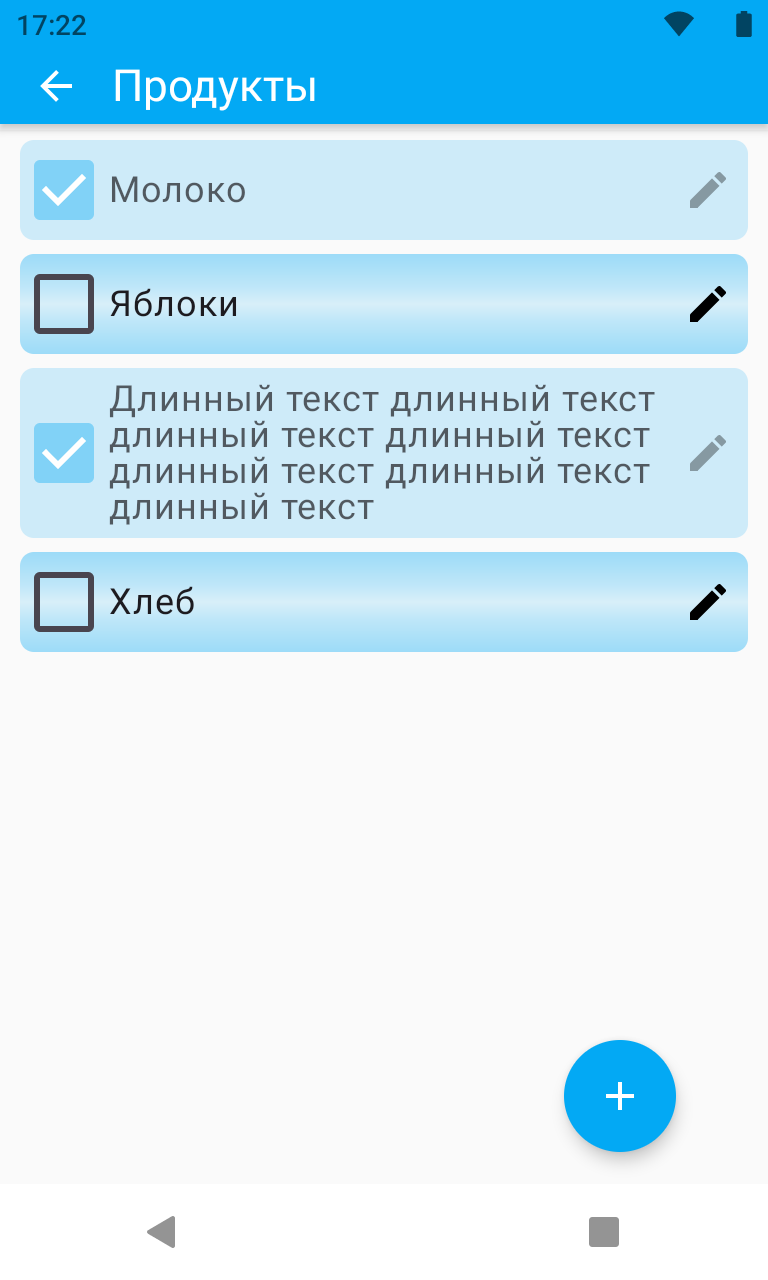
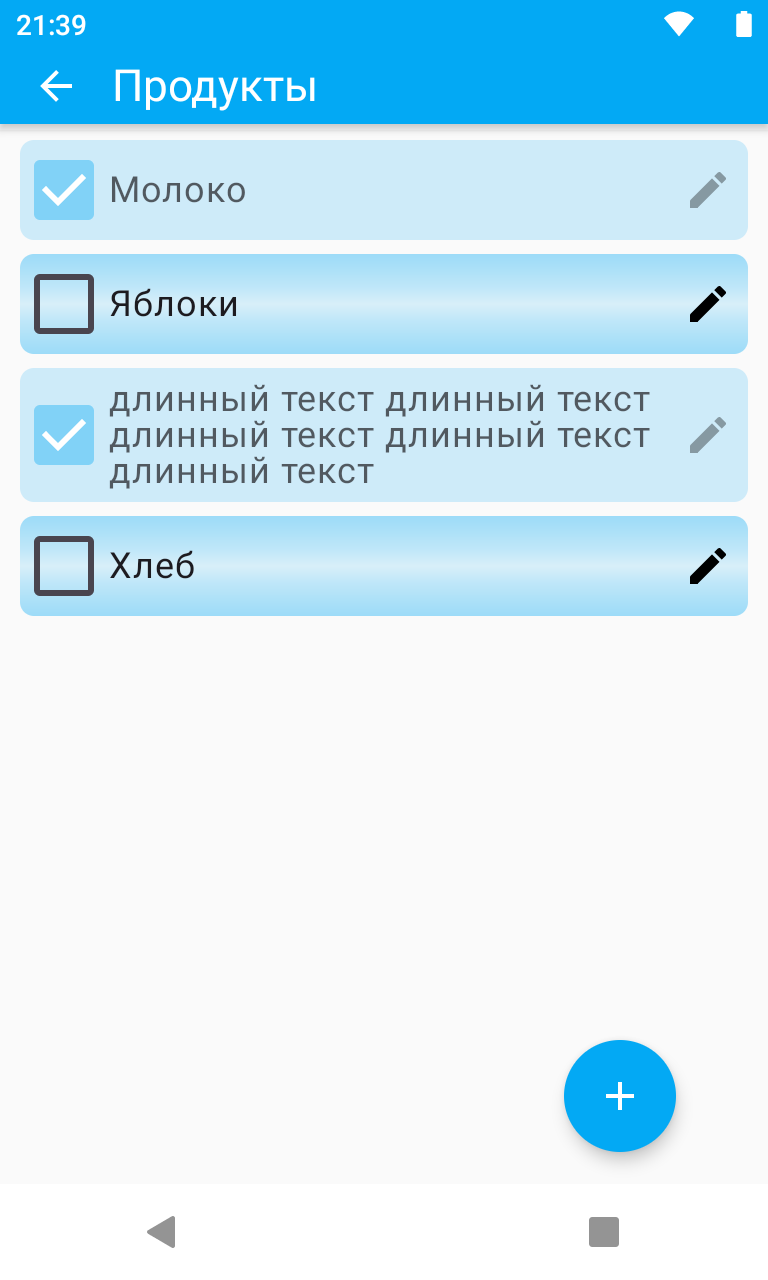
* Поменял внешний вид списка, если в нем все пункты выполнены: теперь он тоже становится плоским без градиента (как и выполненные пункты в самом списке) * В MainActivity принудительно выставил светлый цвет вместо темного для системной верхней панели, иначе сливается содержимое панели с фоном

diff --git a/app/src/main/java/alexx/rizz/mytodo/feature/todolist/ui/components/TodoLists.kt b/app/src/main/java/alexx/rizz/mytodo/feature/todolist/ui/components/TodoLists.kt
@@ -3,6 +3,7 @@ package alexx.rizz.mytodo.feature.todolist.ui.components
 import alexx.rizz.mytodo.R
 import alexx.rizz.mytodo.feature.todolist.*
 import alexx.rizz.mytodo.feature.todolist.TodoListVM.*
+import alexx.rizz.mytodo.feature.todolist.ui.*
 import alexx.rizz.mytodo.feature.todolist.ui.TodoListScreenCommon.RowPadding
 import alexx.rizz.mytodo.ui.*
 import alexx.rizz.mytodo.ui.theme.*
@@ -64,36 +65,39 @@ private fun ReorderableCollectionItemScope.ListRow(
   onDragStopped: () -> Unit,
 ) {
   val interactionSource = remember { MutableInteractionSource() }
+  val isAllDone = list.isAllDone()
+  val containerColor = if (isAllDone) MyColors.DoneCard else Color.Transparent
   Card(
     modifier = Modifier
       .fillMaxWidth()
       .makeDraggable(this, interactionSource, haptic, onDragStopped),
     interactionSource = interactionSource,
     shape = RoundedCornerShape(7.dp),
-    colors = CardDefaults.cardColors(containerColor = Color.Transparent),
+    colors = CardDefaults.cardColors(containerColor = containerColor),
     onClick = { onClick(list.id) },
   ) {
-    Box(Modifier.drawBackground(MyColors.UndoneGradientColors)) {
+    Box(Modifier.conditional(!isAllDone, { drawBackground(MyColors.UndoneGradientColors) })) {
       Row(
         Modifier.padding(RowPadding),
         verticalAlignment = Alignment.CenterVertically,
       ) {
         Column(modifier = Modifier.weight(1f)) {
-          ListText(list.text)
+          ListText(list.text, isAllDone)
           ItemCountText(list.doneCount, list.itemCount)
         }
-        EditButton(onClick = { onEditClick(list.id) })
+        EditButton(isAllDone, onClick = { onEditClick(list.id) })
       }
     }
   }
 }
 
 @Composable
-private fun ListText(text: String) {
+private fun ListText(text: String, isAllDone: Boolean) {
   Text(
     text = text,
     fontSize = 18.sp,
     lineHeight = 18.sp,
+    color = getItemTextColor(isAllDone)
   )
 }
 
@@ -108,10 +112,11 @@ private fun ItemCountText(doneCount: Int, itemCount: Int) {
 }
 
 @Composable
-private fun EditButton(onClick: () -> Unit) {
+private fun EditButton(isAllDone: Boolean, onClick: () -> Unit) {
   CompositionLocalProvider(LocalMinimumInteractiveComponentSize provides 0.dp) {
     IconButton(onClick) {
-      Icon(Icons.Default.Edit, null)
+      val editIcon = Icons.Default.Edit
+      Icon(Icons.Default.Edit, null, tint = editIcon.tintColor.getItemButtonIconColor(isAllDone))
     }
   }
 }

diff --git a/app/src/main/java/alexx/rizz/mytodo/feature/todolist/ui/components/TodoItems.kt b/app/src/main/java/alexx/rizz/mytodo/feature/todolist/ui/components/TodoItems.kt
@@ -2,6 +2,7 @@ package alexx.rizz.mytodo.feature.todolist.ui.components
 
 import alexx.rizz.mytodo.feature.todolist.*
 import alexx.rizz.mytodo.feature.todolist.TodoListVM.*
+import alexx.rizz.mytodo.feature.todolist.ui.*
 import alexx.rizz.mytodo.feature.todolist.ui.TodoListScreenCommon.RowPadding
 import alexx.rizz.mytodo.ui.*
 import alexx.rizz.mytodo.ui.theme.*
@@ -76,9 +77,7 @@ private fun ReorderableCollectionItemScope.ItemRow(
         Modifier.padding(RowPadding),
         verticalAlignment = Alignment.CenterVertically,
       ) {
-        DoneCheckBox(item, onDoneClick = {
-          onDoneClick(it)
-        })
+        DoneCheckBox(item, onDoneClick = onDoneClick)
         Spacer(Modifier.width(10.dp))
         ItemText(Modifier.weight(1f), item.text, item.isDone)
         EditButton(item.isDone, onEditClick)
@@ -111,7 +110,7 @@ private fun ItemText(modifier: Modifier, text: String, isDone: Boolean) {
     modifier = modifier,
     fontSize = 18.sp,
     lineHeight = 18.sp,
-    color = if (isDone) LocalContentColor.current.copy(alpha = 0.7f) else LocalContentColor.current
+    color = getItemTextColor(isDone)
   )
 }
 
@@ -120,8 +119,7 @@ private fun EditButton(isDone: Boolean, onClick: () -> Unit) {
   CompositionLocalProvider(LocalMinimumInteractiveComponentSize provides 0.dp) {
     IconButton(onClick) {
       val editIcon = Icons.Default.Edit
-      val tint = editIcon.tintColor.copy(alpha = if (isDone) 0.35f else 1f)
-      Icon(editIcon, null, tint = tint)
+      Icon(editIcon, null, tint = editIcon.tintColor.getItemButtonIconColor(isDone))
     }
   }
 }

diff --git a/app/src/main/java/alexx/rizz/mytodo/feature/todolist/ui/TodoListScreen.kt b/app/src/main/java/alexx/rizz/mytodo/feature/todolist/ui/TodoListScreen.kt
@@ -5,7 +5,6 @@ import alexx.rizz.mytodo.feature.todolist.TodoListVM.*
 import alexx.rizz.mytodo.feature.todolist.ui.components.*
 import alexx.rizz.mytodo.ui.theme.*
 import androidx.activity.compose.*
-import androidx.compose.animation.core.tween
 import androidx.compose.foundation.layout.*
 import androidx.compose.foundation.shape.*
 import androidx.compose.material.icons.*
@@ -16,11 +15,6 @@ import androidx.compose.ui.*
 import androidx.compose.ui.unit.*
 import androidx.hilt.navigation.compose.*
 import androidx.lifecycle.compose.*
-
-object TodoListScreenCommon {
-  val RowPadding = PaddingValues(10.dp, 5.dp, 0.dp, 5.dp)
-  const val CrossfadeBetweenItemsMillis = 300
-}
 
 @Composable
 fun TodoListScreen(vm: TodoListVM = hiltViewModel()) {

diff --git a/app/src/main/java/alexx/rizz/mytodo/ui/MainActivity.kt b/app/src/main/java/alexx/rizz/mytodo/ui/MainActivity.kt
@@ -4,6 +4,7 @@ import alexx.rizz.mytodo.ui.theme.*
 import android.os.*
 import androidx.activity.*
 import androidx.activity.compose.*
+import androidx.core.view.WindowCompat
 import dagger.hilt.android.*
 
 @AndroidEntryPoint
@@ -12,10 +13,16 @@ class MainActivity : ComponentActivity() {
   override fun onCreate(savedInstanceState: Bundle?) {
     super.onCreate(savedInstanceState)
     enableEdgeToEdge()
+    setLightTextColorAtSystemStatusBar()
     setContent {
       MyTodoTheme {
         NavGraph()
       }
     }
+  }
+
+  private fun setLightTextColorAtSystemStatusBar() {
+    val window = this.window
+    WindowCompat.getInsetsController(window, window.decorView).isAppearanceLightStatusBars = false
   }
 }

diff --git a/app/src/main/java/alexx/rizz/mytodo/feature/todolist/ui/TodoListScreenCommon.kt b/app/src/main/java/alexx/rizz/mytodo/feature/todolist/ui/TodoListScreenCommon.kt
@@ -1,0 +1,19 @@
+package alexx.rizz.mytodo.feature.todolist.ui
+
+import androidx.compose.foundation.layout.*
+import androidx.compose.material3.*
+import androidx.compose.runtime.*
+import androidx.compose.ui.graphics.*
+import androidx.compose.ui.unit.*
+
+object TodoListScreenCommon {
+  val RowPadding = PaddingValues(10.dp, 5.dp, 0.dp, 5.dp)
+  const val CrossfadeBetweenItemsMillis = 300
+}
+
+@Composable
+fun getItemTextColor(isDone: Boolean): Color =
+  if (isDone) LocalContentColor.current.copy(alpha = 0.7f) else LocalContentColor.current
+
+fun Color.getItemButtonIconColor(isDone: Boolean): Color =
+  this.copy(alpha = if (isDone) 0.35f else 1f)

diff --git a/app/src/main/java/alexx/rizz/mytodo/feature/todolist/TodoList.kt b/app/src/main/java/alexx/rizz/mytodo/feature/todolist/TodoList.kt
@@ -7,3 +7,5 @@ data class TodoList(
   val id: TodoListId = TodoListId.Unknown,
 )
 
+fun TodoList.isAllDone(): Boolean =
+  doneCount == itemCount && itemCount > 0

diff --git a/README.md b/README.md
@@ -11,7 +11,7 @@
 * Списки можно переупорядочивать, перетаскивая элементы в нужные позиции
 
 ## Ключевые особенности реализации
-* Jetpack Compose
+* Jetpack Compose (без использования фрагментов, только одна Activity)
 * MVI - паттерн Model-View-Intent с соблюдением Unidirectional Data Flow
 * Реактивный подход с использованием kotlin.Flow для наблюдения за состоянием экранов приложения
 * Hilt (dependency injection)
